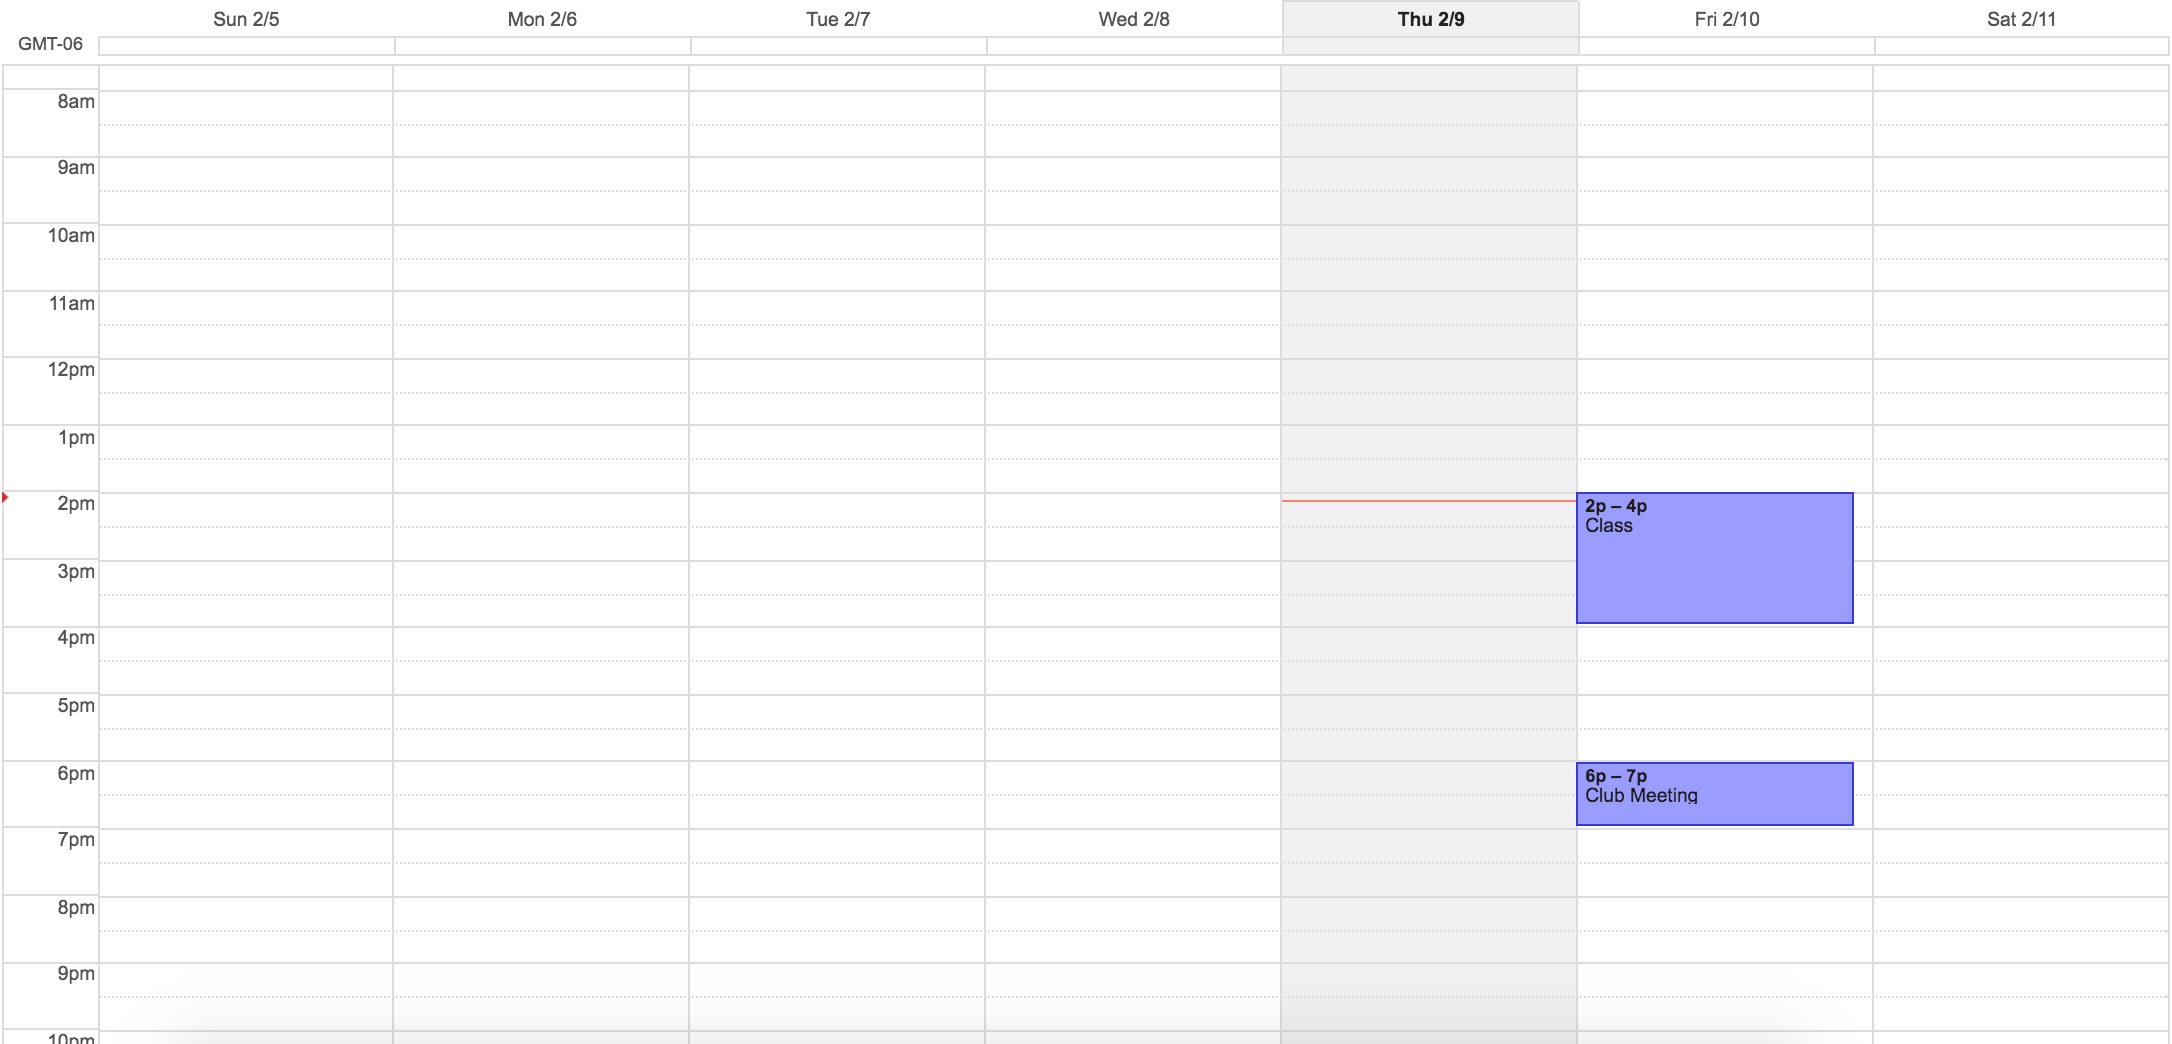
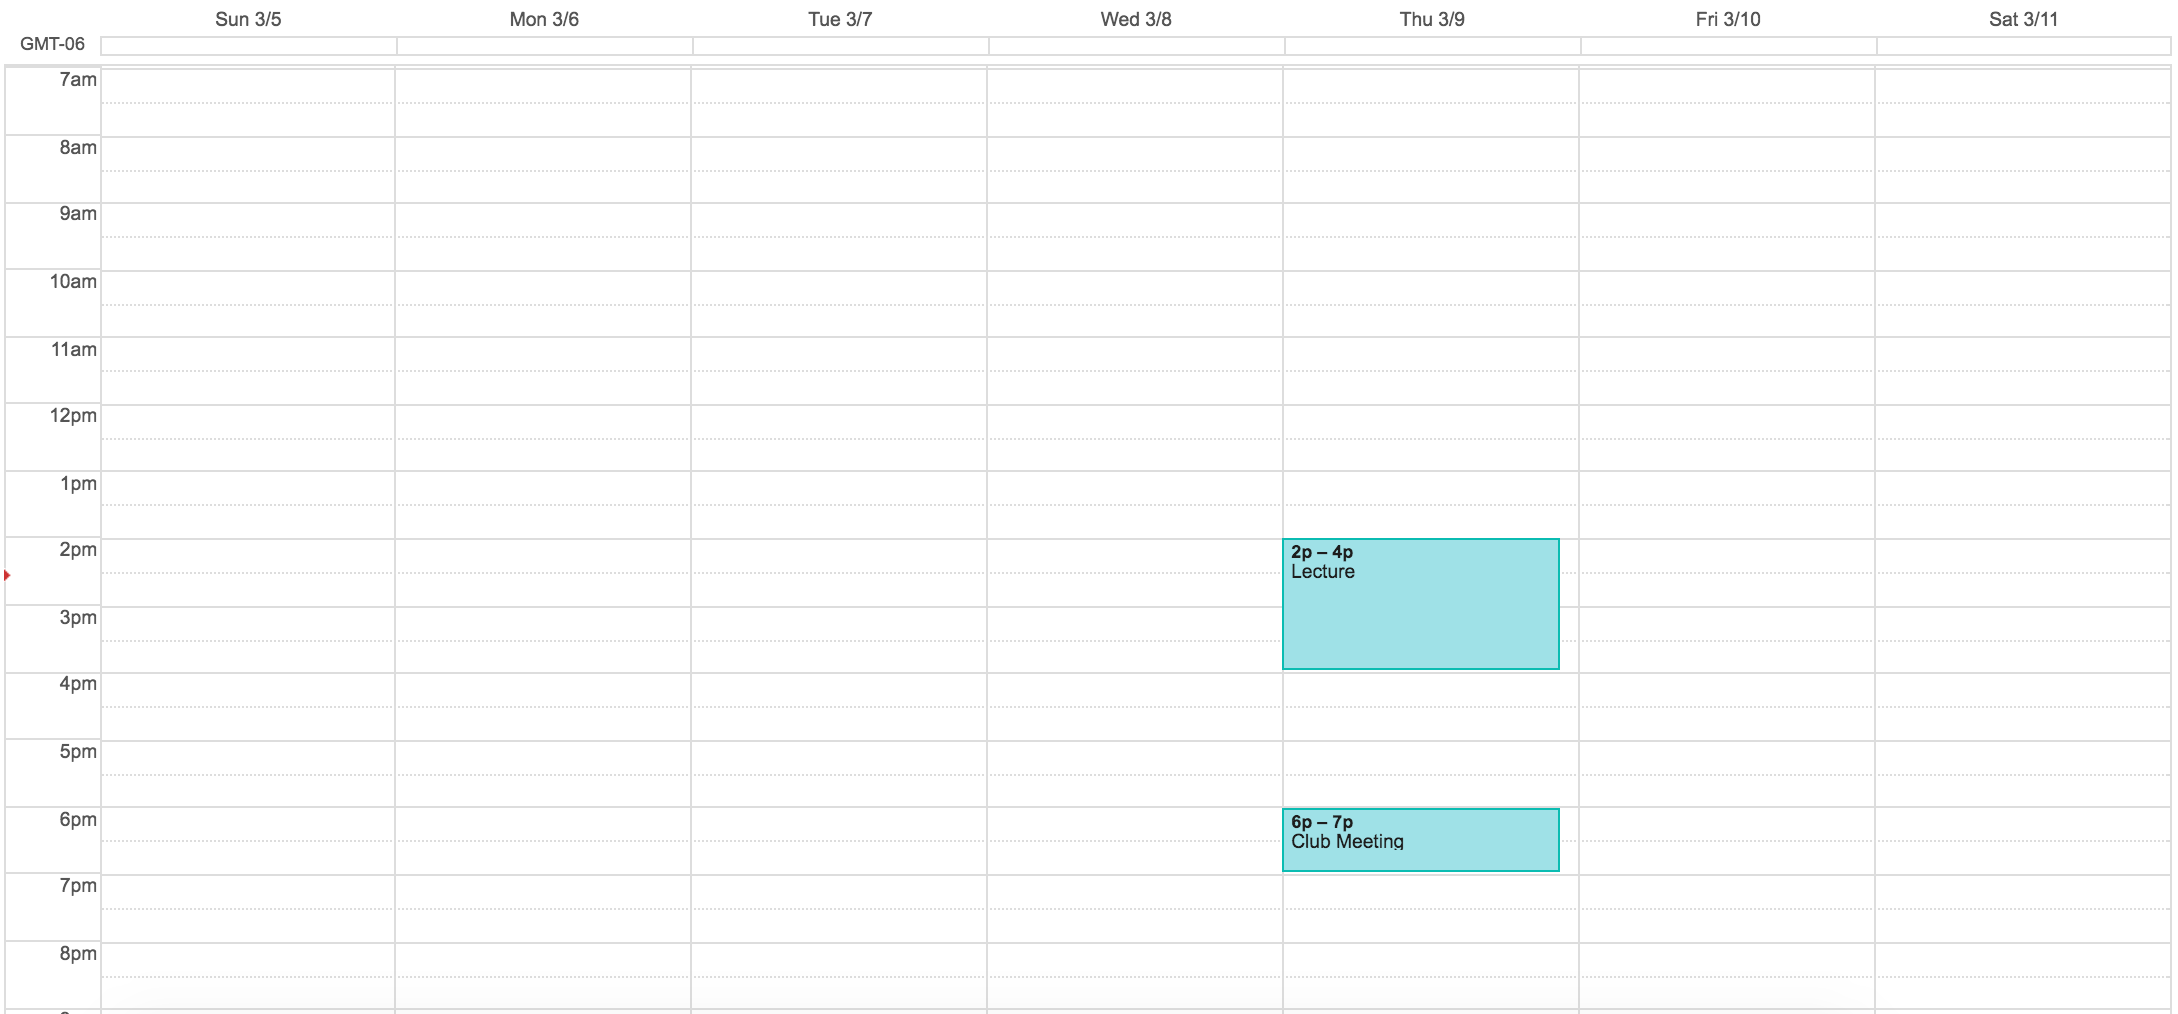
final version

diff --git a/homepage.html b/homepage.html
@@ -27,7 +27,7 @@
    <td id=navtd  > <ul><br>
       <li ><a href="Events.html" class="sidebut" id="sbevents"> Events</a> </li><br><br>
       <li ><a href="Food.html" class="sidebut" id="sbfood">Food</a></li> <br><br>
-      <li ><a href="Fitness1.html" class="sidebut" id="sbfitness">Fitness</a></li> <br><br>
+      <li ><a href="Fitness.html" class="sidebut" id="sbfitness">Fitness</a></li> <br><br>
       <li ><a href="Calendar.html" class="sidebut" id="sbcalendar">Calendar</a></li> <br><br>
    	  <li ><a class="sidebut" id="sbnotifications">Notifications</a></li> 
 
@@ -40,7 +40,7 @@
 <a class="callink" href="Calendar.html">
 <table class=cal>
 	<tr >
-		<th colspan=7><button class="calbut"><</button> February '17 <button class="calbut">></button></th></tr>
+		<th colspan=7><button class="calbut"><</button> March '17 <button class="calbut">></button></th></tr>
 		<tr><td> </td><td> </td><td> </td><td>1</td><td>2</td><td>3</td><td>4</td></tr>
 		<tr><td>5</td><td>6</td><td>7</td><td>8</td><td>9</td><td>10</td><td>11</td></tr>
 		<tr><td> 12</td><td>13 </td><td>14</td><td>15</td><td>16</td><td>17</td><td>18</td></tr>
@@ -59,7 +59,7 @@
     	<div id="HSS">
 			<h1 id=hometitle> Home </h1>
 			<hr color="#FF8000">
-       <p id=firstline> Today is: <i><span style="color: #FF8000" > Thursday, February 9, 2017</span></i></p> 
+       <p id=firstline> Today is: <i><span style="color: #FF8000" > Thursday, March 9, 2017</span></i></p> 
        <p id=secondline>You are free from:  <i><span style="color: #FF8000" >8am-2pm, 4pm-6pm, 7pm-Midnight</span><br><br><br><br></i> </p> 
        <p id=thirdline> Use the side toolbar to find something to do!<br><br><br><br><br></p>
       <!--

diff --git a/AfterWorkoutCalendar.html b/AfterWorkoutCalendar.html
@@ -27,7 +27,7 @@
    <td id=navtd  > <ul><br>
       <li ><a href="Events.html" class="sidebut" id="sbevents"> Events</a> </li><br><br>
       <li ><a href="Food.html" class="sidebut" id="sbfood">Food</a></li> <br><br>
-      <li ><a href="fitness.html" class="sidebut" id="sbfitness">Fitness</a></li> <br><br>
+      <li ><a href="Fitness.html" class="sidebut" id="sbfitness">Fitness</a></li> <br><br>
       <li id="currPage"><a href="Calendar.html" class="sidebut" id="sbcalendar">Calendar</a></li> <br><br>
    	  <li ><a class="sidebut" id="sbnotifications">Notifications</a></li> 
    	  <br><br><br>
@@ -38,7 +38,7 @@
 <a class="callink" href="Calendar.html">
 <table class=cal>
 	<tr >
-		<th colspan=7><button class="calbut"><</button> February '17 <button class="calbut">></button></th></tr>
+		<th colspan=7><button class="calbut"><</button> March '17 <button class="calbut">></button></th></tr>
 		<tr><td> </td><td> </td><td> </td><td>1</td><td>2</td><td>3</td><td>4</td></tr>
 		<tr><td>5</td><td>6</td><td>7</td><td>8</td><td>9</td><td>10</td><td>11</td></tr>
 		<tr><td> 12</td><td>13 </td><td>14</td><td>15</td><td>16</td><td>17</td><td>18</td></tr>
@@ -55,7 +55,7 @@
   </td>
     <td id=rightside width"70%">
     	<div id="HSS">
-      <h1> February 5-11 </h1><hr color="#FF8000">
+      <h1> March 5-11 </h1><hr color="#FF8000">
         
 <!-- <button onclick="document.getElementById('imageID').src='AfterFood.png'"> -->
         <div id="scrollholder">

diff --git a/AfterEventCalendar.html b/AfterEventCalendar.html
@@ -27,7 +27,7 @@
    <td id=navtd  > <ul><br>
       <li ><a href="Events.html" class="sidebut" id="sbevents"> Events</a> </li><br><br>
       <li ><a href="Food.html" class="sidebut" id="sbfood">Food</a></li> <br><br>
-      <li ><a class="sidebut" id="sbfitness">Fitness</a></li> <br><br>
+      <li ><a class="sidebut" href="Fitness.html" id="sbfitness">Fitness</a></li> <br><br>
       <li id="currPage"><a href="Calendar.html" class="sidebut" id="sbcalendar">Calendar</a></li> <br><br>
    	  <li ><a class="sidebut" id="sbnotifications">Notifications</a></li> 
    	  <br><br><br>
@@ -38,7 +38,7 @@
 <a class="callink" href="Calendar.html">
 <table class=cal>
 	<tr >
-		<th colspan=7><button class="calbut"><</button> February '17 <button class="calbut">></button></th></tr>
+		<th colspan=7><button class="calbut"><</button> March '17 <button class="calbut">></button></th></tr>
 		<tr><td> </td><td> </td><td> </td><td>1</td><td>2</td><td>3</td><td>4</td></tr>
 		<tr><td>5</td><td>6</td><td>7</td><td>8</td><td>9</td><td>10</td><td>11</td></tr>
 		<tr><td> 12</td><td>13 </td><td>14</td><td>15</td><td>16</td><td>17</td><td>18</td></tr>
@@ -55,7 +55,7 @@
   </td>
     <td id=rightside width"70%">
     	<div id="HSS">
-      <h1> February 5-11 </h1><hr color="#FF8000">
+      <h1> March 5-11 </h1><hr color="#FF8000">
         
 <!-- <button onclick="document.getElementById('imageID').src='AfterFood.png'"> -->
         <div id="scrollholder">

diff --git a/Events.html b/Events.html
@@ -27,7 +27,7 @@
    <td id=navtd  > <ul><br>
       <li id="currPage"><a  href="Events.html" class="sidebut" id="sbevents" > Events</a> </li><br><br>
       <li ><a href="Food.html"  class="sidebut" id="sbfood">Food</a></li> <br><br>
-      <li ><a href="fitness.html" class="sidebut" id="sbfitness">Fitness</a></li> <br><br>
+      <li ><a href="Fitness.html" class="sidebut" id="sbfitness">Fitness</a></li> <br><br>
       <li ><a  href="Calendar.html" class="sidebut" id="sbcalendar">Calendar</a></li> <br><br>
       <li ><a class="sidebut" id="sbnotifications">Notifications</a></li> 
       <br><br><br>
@@ -38,7 +38,7 @@
 <a class="callink" href="Calendar.html">
 <table class=cal>
   <tr >
-    <th colspan=7><button class="calbut"><</button> February '17 <button class="calbut">></button></th></tr>
+    <th colspan=7><button class="calbut"><</button> March '17 <button class="calbut">></button></th></tr>
     <tr><td> </td><td> </td><td> </td><td>1</td><td>2</td><td>3</td><td>4</td></tr>
     <tr><td>5</td><td>6</td><td>7</td><td>8</td><td>9</td><td>10</td><td>11</td></tr>
     <tr><td> 12</td><td>13 </td><td>14</td><td>15</td><td>16</td><td>17</td><td>18</td></tr>

diff --git a/AfterCalendar.html b/AfterCalendar.html
@@ -27,7 +27,7 @@
    <td id=navtd  > <ul><br>
       <li ><a href="Events.html" class="sidebut" id="sbevents"> Events</a> </li><br><br>
       <li ><a href="Food.html" class="sidebut" id="sbfood">Food</a></li> <br><br>
-      <li ><a href="fitness.html" class="sidebut" id="sbfitness">Fitness</a></li> <br><br>
+      <li ><a href="Fitness.html" class="sidebut" id="sbfitness">Fitness</a></li> <br><br>
       <li id="currPage"><a href="Calendar.html" class="sidebut" id="sbcalendar">Calendar</a></li> <br><br>
    	  <li ><a class="sidebut" id="sbnotifications">Notifications</a></li> 
    	  <br><br><br>
@@ -38,7 +38,7 @@
 <a class="callink" href="Calendar.html">
 <table class=cal>
 	<tr >
-		<th colspan=7><button class="calbut"><</button> February '17 <button class="calbut">></button></th></tr>
+		<th colspan=7><button class="calbut"><</button> March '17 <button class="calbut">></button></th></tr>
 		<tr><td> </td><td> </td><td> </td><td>1</td><td>2</td><td>3</td><td>4</td></tr>
 		<tr><td>5</td><td>6</td><td>7</td><td>8</td><td>9</td><td>10</td><td>11</td></tr>
 		<tr><td> 12</td><td>13 </td><td>14</td><td>15</td><td>16</td><td>17</td><td>18</td></tr>

diff --git a/Calendar.html b/Calendar.html
@@ -38,7 +38,7 @@
 <a class="callink" href="Calendar.html">
 <table class=cal>
 	<tr >
-		<th colspan=7><button class="calbut"><</button> February '17 <button class="calbut">></button></th></tr>
+		<th colspan=7><button class="calbut"><</button> March '17 <button class="calbut">></button></th></tr>
 		<tr><td> </td><td> </td><td> </td><td>1</td><td>2</td><td>3</td><td>4</td></tr>
 		<tr><td>5</td><td>6</td><td>7</td><td>8</td><td>9</td><td>10</td><td>11</td></tr>
 		<tr><td> 12</td><td>13 </td><td>14</td><td>15</td><td>16</td><td>17</td><td>18</td></tr>
@@ -55,7 +55,7 @@
   </td>
     <td id=rightside width"70%">
     	<div id="HSS">
-      <h1> February 5-11 </h1><hr color="#FF8000">
+      <h1> March 5-11 </h1><hr color="#FF8000">
         
 <!-- <button onclick="document.getElementById('imageID').src='AfterFood.png'"> -->
         <div id="scrollholder">

diff --git a/Fitness.html b/Fitness.html
@@ -38,7 +38,7 @@
 <a class="callink" href="Calendar.html">
 <table class=cal>
   <tr >
-    <th colspan=7><button class="calbut"><</button> February '17 <button class="calbut">></button></th></tr>
+    <th colspan=7><button class="calbut"><</button> March '17 <button class="calbut">></button></th></tr>
     <tr><td> </td><td> </td><td> </td><td>1</td><td>2</td><td>3</td><td>4</td></tr>
     <tr><td>5</td><td>6</td><td>7</td><td>8</td><td>9</td><td>10</td><td>11</td></tr>
     <tr><td> 12</td><td>13 </td><td>14</td><td>15</td><td>16</td><td>17</td><td>18</td></tr>
@@ -185,4 +185,3 @@ function switcharoo(x)
 </script>
  <script src="test3.js"></script>
 </body>
-</html>

diff --git a/Food.html b/Food.html
@@ -38,7 +38,7 @@
 <a class="callink" href="Calendar.html">
 <table class=cal>
 	<tr >
-		<th colspan=7><button class="calbut"><</button> February '17 <button class="calbut">></button></th></tr>
+		<th colspan=7><button class="calbut"><</button> March '17 <button class="calbut">></button></th></tr>
 		<tr><td> </td><td> </td><td> </td><td>1</td><td>2</td><td>3</td><td>4</td></tr>
 		<tr><td>5</td><td>6</td><td>7</td><td>8</td><td>9</td><td>10</td><td>11</td></tr>
 		<tr><td> 12</td><td>13 </td><td>14</td><td>15</td><td>16</td><td>17</td><td>18</td></tr>
